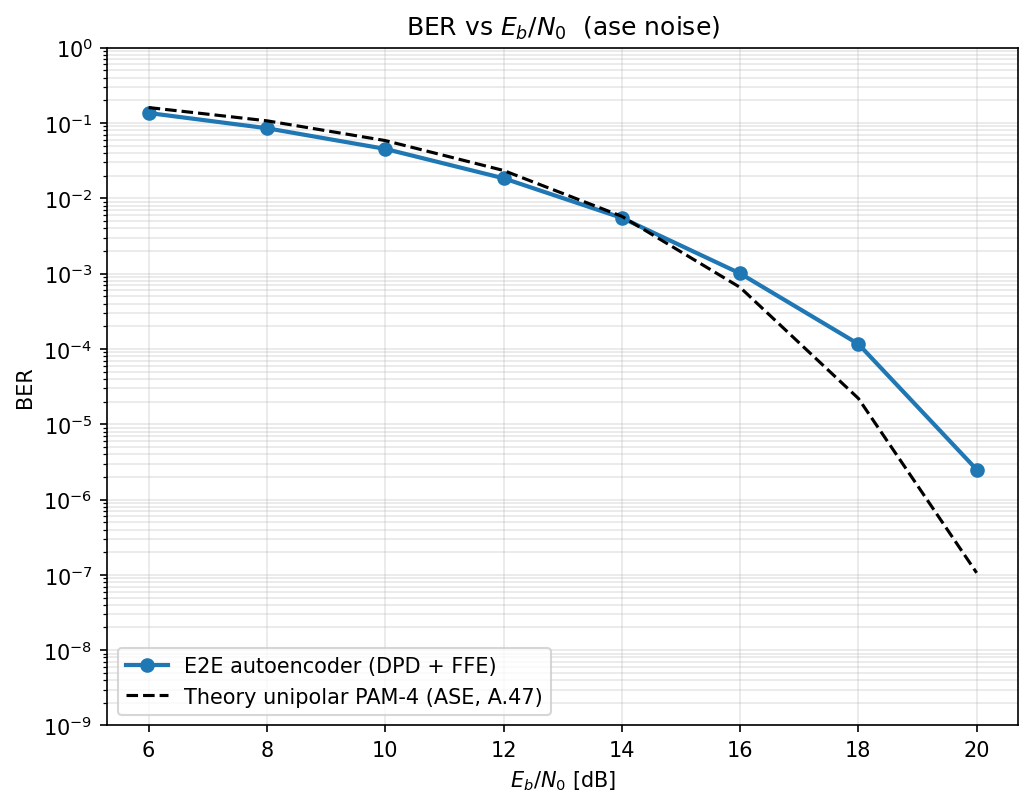
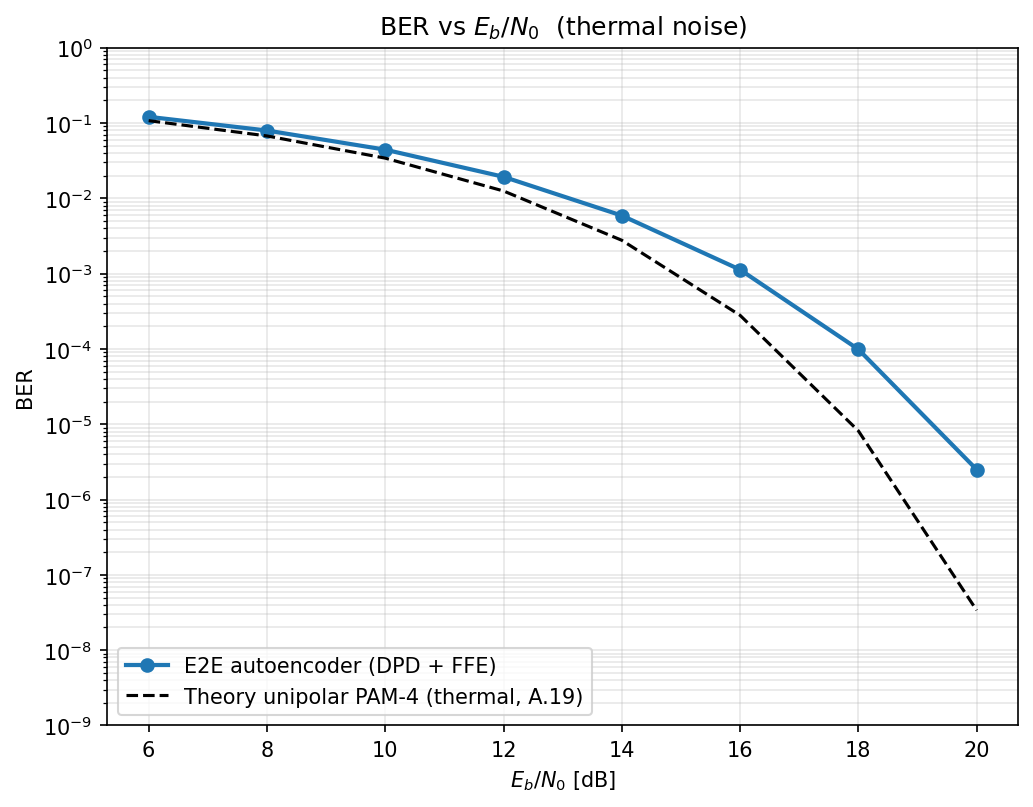
thermal regime: no optical filter (none) -- not needed without a preamp
A thermal/electrical-noise-limited direct-detection receiver has no optical preamplifier and
hence no optical filter; any optical filtering there only attenuates the signal before the PD.
Verified: thermal with no optical filter is equal to the brick-wall up to 16 dB and slightly
better at 18-20 dB (1.25e-6 vs 2.50e-6 @20 dB -- and 1.25e-6 reproduces the original electrical
baseline). So optical_filter_type "auto" now resolves to "none" for thermal (still "matched"
for ase). channel.py gained a "none" type; the resolved type is stored/restored in the
checkpoint. Regenerated pam4_thermal.pt and the comparison figure (ase unchanged).

diff --git a/channel.py b/channel.py
@@ -74,29 +74,28 @@ class OpticalChannel(nn.Module):
         fiber_length_m = config.fiber_length_km * 1e3
         self.dispersion_coeff = 0.5 * beta2_s2_per_m * fiber_length_m   # [s^2], signed
 
-        # optical bandpass before the PD (preamplified receiver). In baseband (complex envelope,
-        # carrier at DC) the optical bandpass of full width B_o becomes a COMPLEX low-pass of
-        # cutoff B_o/2 on the field -> the same real FIR applied to each quadrature. It suppresses
-        # out-of-band ASE before the square law (cuts mainly the ASE-ASE beat). None = no filter.
+        # optical bandpass before the PD (only meaningful for a preamplified/ASE receiver). In
+        # baseband (carrier at DC) it is a COMPLEX low-pass on the field -> the same real FIR on
+        # each quadrature, before the square law, to suppress out-of-band ASE. Types: "matched"
+        # (RRC matched to the pulse, A.47 optimum), "brickwall" (windowed-sinc at B_o/2), "none".
         optical_bw = getattr(config, "optical_filter_bandwidth", None)
         optical_type = getattr(config, "optical_filter_type", "auto")
-        if optical_type == "auto":               # matched for ase (preamp RX, A.47), brickwall for thermal
-            optical_type = "matched" if config.noise_regime == "ase" else "brickwall"
-        self.optical_filter_type = optical_type
-        if optical_bw is not None and optical_bw < config.sim_sample_rate:
+        if optical_type == "auto":               # ase: matched (preamp RX); thermal: none (no preamp)
+            optical_type = "matched" if config.noise_regime == "ase" else "none"
+        if optical_type == "none" or optical_bw is None or optical_bw >= config.sim_sample_rate:
+            self.optical_filter = None
+            self.optical_filter_type = "none"
+        else:
             if optical_type == "matched":
-                # optical filter matched to the signal pulse (RRC), unit-DC-gain -> A.47 optimum
                 rrc = root_raised_cosine(config.rrc_rolloff, config.rrc_span_symbols, config.samples_per_symbol_sim)
                 optical_taps = (rrc / rrc.sum()).astype(np.float32)
             else:
-                # brick-wall: windowed-sinc low-pass at B_o/2
                 optical_taps = lowpass_fir(optical_bw / 2, config.sim_sample_rate, optical_filter_taps)
             optical_weight = torch.tensor(optical_taps[::-1].copy()).view(1, 1, -1)
             self.optical_filter = nn.Conv1d(1, 1, kernel_size=len(optical_taps),
                                             padding=len(optical_taps) // 2, bias=False)
             self.optical_filter.weight = nn.Parameter(optical_weight)
-        else:
-            self.optical_filter = None
+            self.optical_filter_type = optical_type
 
         # photodiode low-pass FIR (single channel: the photocurrent)
         pd_taps = lowpass_fir(config.photodiode_bandwidth, config.sim_sample_rate, pd_filter_taps)

diff --git a/config.py b/config.py
@@ -45,9 +45,10 @@ class Config:
         # 37 GHz ~= R_s*(1+rolloff), matched to the signal optical band. None disables it.
         self.optical_filter_bandwidth = 37e9
         self.optical_filter_type = "auto"       # AUTO: "matched" for ase (RRC matched to the pulse,
-                                                # A.47 optimum, ~2.5 dB -> ASE ~= thermal) and "brickwall"
-                                                # for thermal (matched would attenuate the signal and hurt
-                                                # the additive-noise case). Force with "matched"/"brickwall".
+                                                # A.47 optimum, ~2.5 dB -> ASE ~= thermal) and "none" for
+                                                # thermal (no preamp -> no optical filter; any optical
+                                                # filtering only attenuates the signal there).
+                                                # Force with "matched" / "brickwall" / "none".
 
         # ----- photodiode -----
         self.photodiode_bandwidth = 25e9        # post-detection low-pass bandwidth
@@ -117,11 +118,11 @@ class Config:
         lines.append(f"noise regime         : {self.noise_regime}")
         optical_type = self.optical_filter_type
         if optical_type == "auto":
-            optical_type = "matched" if self.noise_regime == "ase" else "brickwall"
-        if self.optical_filter_bandwidth:
-            lines.append(f"optical filter       : {optical_type}, Bo {self.optical_filter_bandwidth/1e9:.0f} GHz")
-        else:
+            optical_type = "matched" if self.noise_regime == "ase" else "none"
+        if optical_type == "none" or not self.optical_filter_bandwidth:
             lines.append("optical filter       : none")
+        else:
+            lines.append(f"optical filter       : {optical_type}, Bo {self.optical_filter_bandwidth/1e9:.0f} GHz")
         companding = self.rx_sqrt_companding if self.rx_sqrt_companding is not None else (self.noise_regime == "ase")
         lines.append(f"rx sqrt companding   : {companding}")
         return "\n".join(lines)
